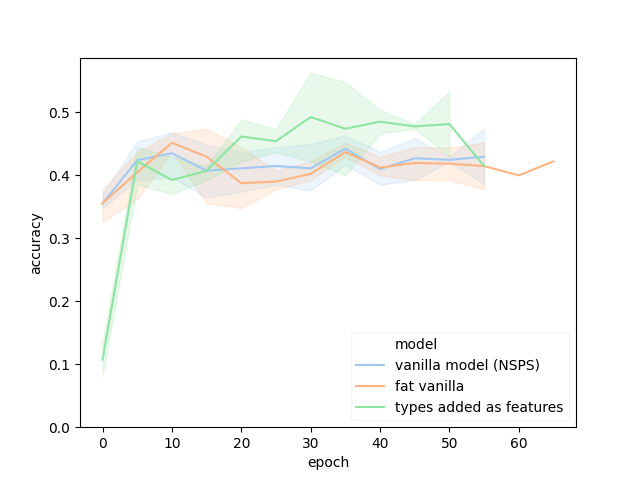
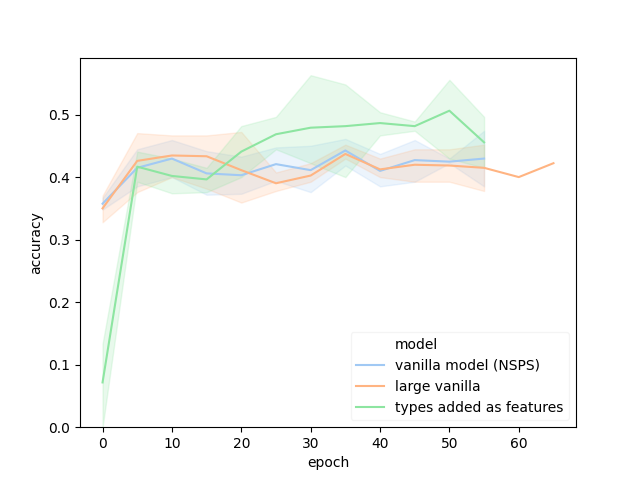
include 4-seed results

diff --git a/main.tex b/main.tex
@@ -3005,7 +3005,8 @@ This demonstrates that the findings from traditional program synthesis methods a
     \label{fig:accuracy}
 \end{figure*}
 
-Accuracy results over training on our validation set can be found in Figure \ref{fig:accuracy}.
+Accuracy results over training on our validation set can be found in Figure \ref{fig:accuracy},
+while accuracy on the test set for the fully trained models may be found in Figure \ref{fig:finalacc}.
 We see that the simpler vanilla NSPS model is both more limited in variance while also learning to a more limited extent before converging.
 
 Our first observation here is that the task has turned out relatively challenging,
@@ -3024,6 +3025,26 @@ starts from sub-random accuracies, yet ends up able to learn more,
 after $20$ epochs out-performing both our baseline and enlarged models,
 indicating it is in fact worthwhile to distribute features between input/output pairs and types.
 
+\begin{figure*}
+    \begin{tabular}{|l|c|c|c|c|c|c|c|c|c|c|} \hline
+        & \multicolumn{5}{|c|}{ \textbf{evaluated @ 20 samples} } & \multicolumn{5}{|c|}{ \textbf{evaluated @ 100 samples} } \\ \hline
+        & \multicolumn{2}{|c|}{ \textbf{accuracy} } & \multicolumn{3}{|c|}{ \textbf{acc mean @ x nodes} } & \multicolumn{2}{|c|}{ \textbf{accuracy} } & \multicolumn{3}{|c|}{ \textbf{acc mean @ x nodes} } \\ \hline
+        \textbf{experiment} & \textbf{mean} & \textbf{var} & \textbf{1} & \textbf{2} & \textbf{3} & \textbf{mean} & \textbf{var} & \textbf{1} & \textbf{2} & \textbf{3} \\ \hline
+        \textbf{vanilla NSPS} & 0.13 & 0.000 & 0.27 & 0.13 & 0.11 & 0.37 & 0.000 & 0.77 & 0.36 & 0.30 \\ \hline
+        \textbf{large} & 0.12 & 0.001 & 0.30 & 0.12 & 0.09 & 0.38 & 0.002 & 0.73 & 0.38 & 0.30 \\ \hline
+        \textbf{typed} & 0.22 & 0.002 & 0.55 & 0.24 & 0.12 & 0.48 & 0.003 & 0.77 & 0.55 & 0.34 \\ \hline
+        \textbf{uniform random} & 0.14 & 0.000 & 0.43 & 0.11 & 0.11 & 0.33 & 0.000 & 0.84 & 0.25 & 0.31 \\ \hline
+    \end{tabular}
+\caption{
+    Summary of final prediction accuracy on our test set over different models after training (4 seeds each),
+    for each selecting the best-performing epoch as per validation accuracy i.e. before overfit.
+    Results are separated by evaluation on 20 vs. 100 samples,
+    and metrics include mean accuracy, variance of accuracy,
+    as well as mean accuracy separated by programs of a given number of nodes.
+}
+\label{fig:finalacc}
+\end{figure*}
+
 We additionally attempted to look into whether we could find a correlation between this
 advantage gained by incorporating type information with the number of nodes in a program.
 However, the data we managed to gather was insufficient to demonstrate such a correlation.
@@ -3036,8 +3057,8 @@ Specifically, our task turned out hard,
 with none of the models significantly out-performing a random synthesizer
 on the task functions of 3 nodes.
 On the 1-node task functions at 100 samples,
-similarly none of the models outperformed the random synthesizer's 79\% accuracy,
-although at 20 samples the typed model out-performed it at 52\% vs. 39\%.
+similarly none of the models outperformed the random synthesizer's 84\% accuracy,
+although at 20 samples the typed model out-performed it at 55\% vs. 43\%.
 This means that most of the learning success for these models has been on the 2-node task functions,
 particularly for the typed model, achieving over double the random accuracy for either 20 or 100 samples.
 
@@ -3053,19 +3074,20 @@ results for which may be found in Figure \ref{fig:ttest}.
 
 Whereas we similarly compared such differences for accuracy as evaluated on 100 samples,
 we found the outcome for 20 samples to more clearly demonstrate the difference between models.
-Under 3 seeds each our typed model turns out to have only 5.2\%
-to stem from the same distribution as our baseline and enlarged models,
-indicating we should just run one additional seed to definitively prove the superiority of our model.
+Under 4 seeds each our typed model turns out to have only p=1.0\%
+to stem from the same distribution as our baseline model,
+indicating the improvement in performance is statistically significant.
 
 \begin{figure*}
-    \begin{tabular}{|l|c|c|c|c|c|} \hline
+    \begin{tabular}{|l|c|c|c|c|c|c|} \hline
         \textbf{p-values}
-        & \textbf{vanilla} & \textbf{fat} & \textbf{types} \\ \hline
-        \textbf{vanilla} & 1.000 & 0.457 & 0.052 \\ \hline
-        \textbf{fat} & 0.457 & 1.000 & 0.052 \\ \hline
-        \textbf{types} & 0.052 & 0.052 & 1.000 \\ \hline
+        & \textbf{vanilla} & \textbf{large} & \textbf{types} & \textbf{uniform} \\ \hline
+        \textbf{vanilla} & 1.000 & 0.859 & 0.010 & 0.013 \\ \hline
+        \textbf{large} & 0.859 & 1.000 & 0.024 & 0.065 \\ \hline
+        \textbf{types} & 0.010 & 0.024 & 1.000 & 0.001 \\ \hline
+        \textbf{uniform} & 0.013 & 0.065 & 0.001 & 1.000 \\ \hline
     \end{tabular}
-    \caption{P-values for different model combinations under the independent two-sample t-test comparing accuracy as evaluated on 20 samples per task function instance.}
+    \caption{P-values for different model combinations under the independent two-sample t-test comparing accuracy as evaluated on 100 samples per task function instance.}
     \label{fig:ttest}
 \end{figure*}
 
